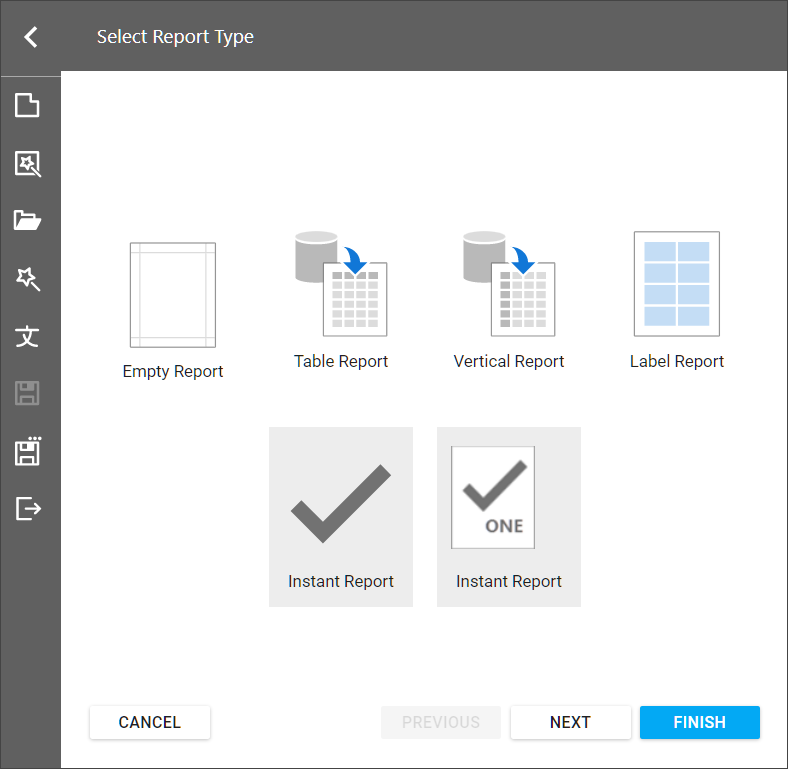
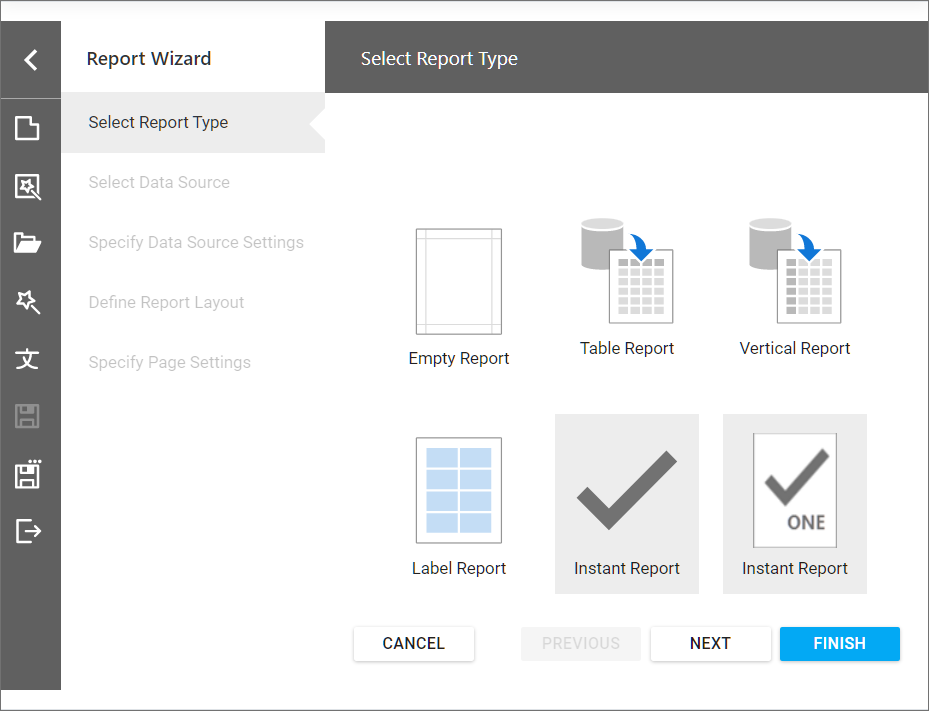
auto sync for version 2022.2

diff --git a/Angular/ReportWizardCustomizationServiceAngularExample/ClientApp/src/index.html b/Angular/ReportWizardCustomizationServiceAngularExample/ClientApp/src/index.html
@@ -12,7 +12,7 @@
         <svg viewBox="-2 -5 32 32" xmlns="http://www.w3.org/2000/svg" xmlns:xlink="http://www.w3.org/1999/xlink">
             <g id="Layer_1" transform="translate(-2, -5)" style="enable-background:new 0 0 32 32">
                 <g id="Check">
-                    <polygon points="27,5 11,21 5,15 2,18 11,27 30,8  " fill="#727272" class="Black" />
+                    <polygon class="dxd-icon-fill" points="27,5 11,21 5,15 2,18 11,27 30,8  " fill="#727272" />
                 </g>
             </g>
         </svg>
@@ -27,6 +27,8 @@
         .instant-report-image {
             background-image: url("assets/InstantReportCheck.png");
             background-repeat: no-repeat;
+            background-position: center;
+            background-size: 70px 96px;
         }
     </style>
 

diff --git a/AspNetCore/ReportWizardCustomizationServiceAspNetCoreExample/wwwroot/css/ImageClasses.css b/AspNetCore/ReportWizardCustomizationServiceAspNetCoreExample/wwwroot/css/ImageClasses.css
@@ -1,4 +1,6 @@
 .instant-report-image {
     background-image: url('InstantReportCheck.png');
     background-repeat: no-repeat;
+    background-position: center;
+    background-size: 70px 96px;
 }

diff --git a/Mvc/ReportWizardCustomizationServiceMvcExample/Content/ImageClasses.css b/Mvc/ReportWizardCustomizationServiceMvcExample/Content/ImageClasses.css
@@ -1,4 +1,6 @@
 .instant-report-image {
     background-image: url('InstantReportCheck.png');
     background-repeat: no-repeat;
+    background-position: center;
+    background-size: 70px 96px;
 }

diff --git a/AspNetCore/ReportWizardCustomizationServiceAspNetCoreExample/Services/InstantReportWizardCustomizationService.cs b/AspNetCore/ReportWizardCustomizationServiceAspNetCoreExample/Services/InstantReportWizardCustomizationService.cs
@@ -2,6 +2,7 @@ using DevExpress.XtraReports.UI;
 using DevExpress.XtraReports.Web.ReportDesigner.DataContracts;
 using DevExpress.XtraReports.Web.ReportDesigner.Services;
 using DevExpress.XtraReports.Wizards;
+using System.Linq;
 using System.Threading.Tasks;
 
 public class InstantReportWizardCustomizationService : ReportWizardCustomizationService {
@@ -18,6 +19,7 @@ public class InstantReportWizardCustomizationService : ReportWizardCustomization
         return Task.FromResult(TryCreateCustomReport(model, dataSource, dataMember, customWizardData, report));
     }
     public override void CustomizeReportTypeList(ReportWizardTemplateCollection predefinedTypes) {
+        predefinedTypes.Remove(predefinedTypes.Where(x => x.ID == nameof(ReportType.CrossTab)).First());
         predefinedTypes.Add(new DevExpress.XtraReports.Web.ReportDesigner.DataContracts.ReportWizardTemplate() {
             CanInstantlyFinish = true,
             ID = "InstantReport",

diff --git a/Mvc/ReportWizardCustomizationServiceMvcExample/Services/InstantReportWizardCustomizationService.cs b/Mvc/ReportWizardCustomizationServiceMvcExample/Services/InstantReportWizardCustomizationService.cs
@@ -24,7 +24,8 @@ public class InstantReportWizardCustomizationService : ReportWizardCustomization
             CanInstantlyFinish = true,
             ID = "InstantReport",
             Text = "Instant Report",
-            ImageTemplateName = "instant-report"
+            ImageTemplateName = "instant-report",
+            LocalizationID = "InstantReportLocalized"
         });
         predefinedTypes.Add(new DevExpress.XtraReports.Web.ReportDesigner.DataContracts.ReportWizardTemplate() {
             CanInstantlyFinish = true,

diff --git a/README.md b/README.md
@@ -1,8 +1,3 @@
-<!-- default badges list -->
-![](https://img.shields.io/endpoint?url=https://codecentral.devexpress.com/api/v1/VersionRange/602963716/2022.2)
-[![](https://img.shields.io/badge/Open_in_DevExpress_Support_Center-FF7200?style=flat-square&logo=DevExpress&logoColor=white)](https://supportcenter.devexpress.com/ticket/details/T1148046)
-[![](https://img.shields.io/badge/📖_How_to_use_DevExpress_Examples-e9f6fc?style=flat-square)](https://docs.devexpress.com/GeneralInformation/403183)
-<!-- default badges end -->
 # Reporting for Web (ASP.NET MVC, ASP.NET Core and Angular) - How to Use the Report Wizard Customization API and Hide Data Source Actions in Report Designer
 
 This example shows how to add a custom report template to the Report Wizard and make final adjustments to the report you are creating. The Report designer is configured to hide data source actions so that the user cannot add, modify, or delete the report data source.
